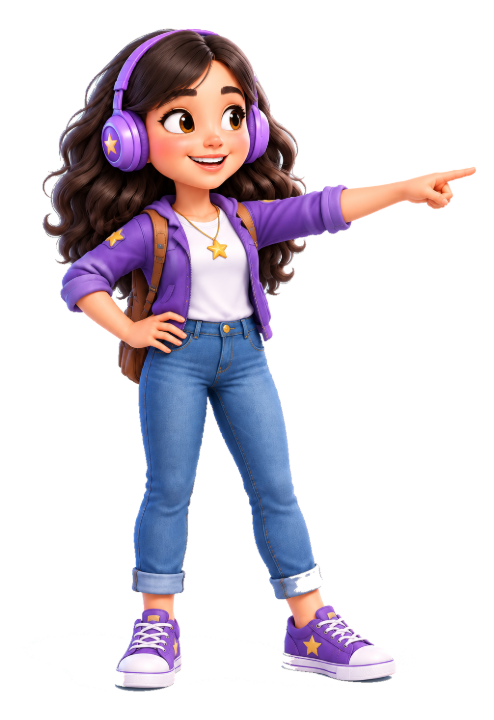
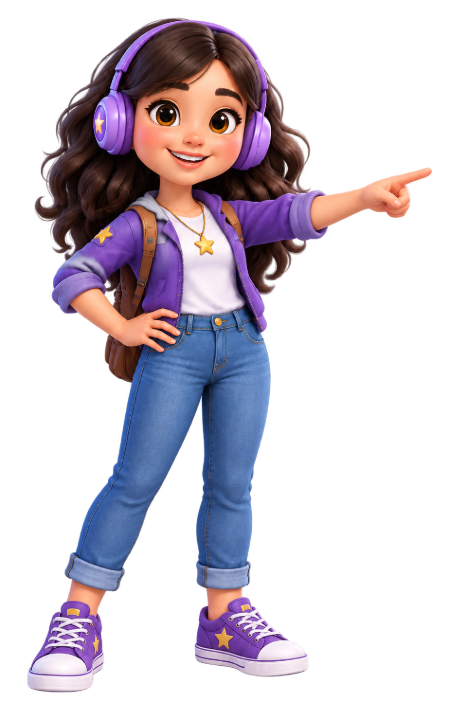
feat: guides from transparent renders — no keying for the stills; Milo's talk pose gets a real closed/open mouth
Stefan's transparent PNGs replace the keyed cut-outs (talk, wave, point,
cheer, think for both guides). Milo's talk render is drawn with an open mouth,
so a dark cover with a drawn smile closes it and fades away as the voice
opens it; other poses keep the glow. Shadow keying for clips now works for any
backdrop colour (green screen next).

Claude-Session: https://claude.ai/code/session_01JtiWPMo1Ad6AaJa51j3FBT

Changed region(s): [[0.0622, 0.0, 0.9333, 0.9778]]

diff --git a/milo.js b/milo.js
@@ -17,6 +17,9 @@
   // shown while the guide moves. Pointing left mirrors the pointing pose,
   // pointing down leans it over (CSS on data-pose).
   const u=p=>K.assetUrl?K.assetUrl(p):p;
+  // A mouth box may carry its own `style`: Milo's talk render has an open
+  // mouth, so there a dark cover with a drawn smile closes it (`cover`);
+  // elsewhere his screen-mouth glows open (`glow`); Luna's opens (`jaw`).
   const poses=(dir,m)=>({
     wave:{src:u(`${dir}/wave.png`),mouth:m.wave},talk:{src:u(`${dir}/talk.png`),mouth:m.talk},
     think:{src:u(`${dir}/think.png`),mouth:m.think},cheer:{src:u(`${dir}/cheer.png`),mouth:m.cheer},
@@ -24,8 +27,8 @@
     walkA:{src:u(`${dir}/walk-a.png`)},walkB:{src:u(`${dir}/walk-b.png`)},jumpA:{src:u(`${dir}/jump-a.png`)},jumpB:{src:u(`${dir}/jump-b.png`)}
   });
   K.GUIDE_POSES={
-    milo:poses('assets/mascots/milo',{wave:{x:.61,y:.38,w:.09,h:.045},talk:{x:.57,y:.37,w:.1,h:.05},think:{x:.6,y:.37,w:.09,h:.045},cheer:{x:.57,y:.36,w:.12,h:.06},point:{x:.59,y:.37,w:.09,h:.045}}),
-    luna:poses('assets/mascots/luna',{wave:{x:.6,y:.245,w:.07,h:.032},talk:{x:.52,y:.21,w:.07,h:.03},think:{x:.56,y:.22,w:.06,h:.03},cheer:{x:.52,y:.22,w:.09,h:.04},point:{x:.49,y:.22,w:.07,h:.03}})
+    milo:poses('assets/mascots/milo',{wave:{x:.6,y:.36,w:.1,h:.05},talk:{x:.527,y:.404,w:.125,h:.08,style:'cover'},think:{x:.53,y:.36,w:.1,h:.05},cheer:{x:.56,y:.36,w:.12,h:.06},point:{x:.57,y:.37,w:.1,h:.05}}),
+    luna:poses('assets/mascots/luna',{wave:{x:.6,y:.215,w:.07,h:.03},talk:{x:.5,y:.215,w:.07,h:.03},think:{x:.62,y:.215,w:.06,h:.03},cheer:{x:.5,y:.215,w:.08,h:.035},point:{x:.48,y:.215,w:.07,h:.03}})
   };
   K.MILO_POSES=K.GUIDE_POSES.milo;
   // `mouth` is where the mouth sits on the portrait (fractions of its width and
@@ -90,7 +93,9 @@
       const {mw,mh,mg,key,keyLum,mdata}=st;mg.drawImage(st.video,0,0,mw,mh);const d=mg.getImageData(0,0,mw,mh).data;
       const TOL=26,seen=st.seen;seen.fill(0);const stack=[];
       const dist=i=>Math.abs(d[i*4]-key[0])+Math.abs(d[i*4+1]-key[1])+Math.abs(d[i*4+2]-key[2]);
-      const isShadow=i=>{const r=d[i*4],g=d[i*4+1],b=d[i*4+2];const mx=Math.max(r,g,b),mn=Math.min(r,g,b);const sat=mx?(mx-mn)/mx:0;const lum=r*.3+g*.59+b*.11;return sat<=.3&&lum<keyLum-3&&lum>keyLum-80&&b>r+8};
+      // A ground shadow is the backdrop colour, darker: same channel ratios as the key, lower luminance.
+      const kn=Math.max(1,Math.max(key[0],key[1],key[2]));const kr=[key[0]/kn,key[1]/kn,key[2]/kn];
+      const isShadow=i=>{const r=d[i*4],g=d[i*4+1],b=d[i*4+2];const mx=Math.max(1,r,g,b);const lum=r*.3+g*.59+b*.11;return lum<keyLum-3&&lum>keyLum*.35&&Math.abs(r/mx-kr[0])<.14&&Math.abs(g/mx-kr[1])<.14&&Math.abs(b/mx-kr[2])<.14};
       for(let x=0;x<mw;x++){stack.push(x,(mh-1)*mw+x)}for(let y=0;y<mh;y++){stack.push(y*mw,y*mw+mw-1)}
       while(stack.length){const i=stack.pop();if(seen[i]||dist(i)>TOL)continue;seen[i]=1;const x=i%mw,y=(i/mw)|0;if(x>0)stack.push(i-1);if(x<mw-1)stack.push(i+1);if(y>0)stack.push(i-mw);if(y<mh-1)stack.push(i+mw)}
       for(let i=0;i<mw*mh;i++)if(seen[i]){for(const k of [i-1,i+1,i-mw,i+mw])if(k>=0&&k<mw*mh&&!seen[k]&&isShadow(k))stack.push(k)}
@@ -199,6 +204,7 @@
       const r=img.getBoundingClientRect();const w=r.width||img.offsetWidth,h=r.height||img.offsetHeight;
       if(!w||!h){figMouth.hidden=true;return}
       figMouth.hidden=false;
+      figMouth.className=`milo-mouth mouth-${m.style||g.mouthStyle||'jaw'}`;
       figMouth.style.left=Math.round(m.x*w)+'px';figMouth.style.top=Math.round(m.y*h)+'px';
       figMouth.style.setProperty('--mw',Math.max(6,Math.round(m.w*w))+'px');figMouth.style.setProperty('--mh',Math.max(3,Math.round(m.h*h))+'px');
     };

diff --git a/screens.css b/screens.css
@@ -784,6 +784,9 @@
 .milo-mouth{position:absolute;z-index:2;pointer-events:none;transform:translate(-50%,-50%);--open:0}
 .milo-mouth.mouth-jaw{width:var(--mw);height:calc(var(--mh) * (0.5 + var(--open) * 2.2));border-radius:50%;background:radial-gradient(ellipse at 50% 35%,#5a1f24,#2a0d10 70%);opacity:calc(var(--open) * 1.8)}
 .milo-mouth.mouth-glow{width:calc(var(--mw) * (0.9 + var(--open) * .3));height:calc(var(--mh) * (0.6 + var(--open) * 1.4));transform:translate(-50%,-30%);border-radius:50%;background:radial-gradient(ellipse at 50% 50%,rgba(20,60,140,.55) 0 30%,#bff4ff 44%,#5fd0ff 56%,rgba(46,166,255,.7) 66%,rgba(46,166,255,0) 78%);opacity:calc(var(--open) * 1.4)}
+/* Milo's talk render is drawn with an open mouth: a dark cover with a small glowing smile closes it; it fades out as --open rises. */
+.milo-mouth.mouth-cover{width:calc(var(--mw) * 1.25);height:calc(var(--mh) * 1.15);border-radius:50%;background:#0d1a3e;opacity:calc(1 - var(--open) * 2.2);transform:translate(-50%,-50%)}
+.milo-mouth.mouth-cover::after{content:'';position:absolute;left:28%;right:28%;top:22%;height:34%;border:0 solid #5fd8ff;border-bottom-width:max(2px,calc(var(--mh) * .2));border-radius:0 0 50% 50%;box-shadow:0 2px 6px rgba(95,216,255,.7)}
 .milo-host.flip .milo-fig-wrap{transform:scaleX(-1)}
 .milo-tour-hint{position:absolute;left:0;right:0;bottom:calc(6px + var(--sab));display:flex;justify-content:center;align-items:center;gap:10px;font-size:11px;font-weight:900;color:rgba(255,255,255,.8);pointer-events:none}
 .milo-tour-skip{pointer-events:auto;min-height:32px;padding:0 14px;border:0;border-radius:999px;cursor:pointer;font-weight:1000;font-size:12px;color:#17245e;background:linear-gradient(180deg,#ffe762,#ffb61b);box-shadow:0 3px 0 #d9860d}
